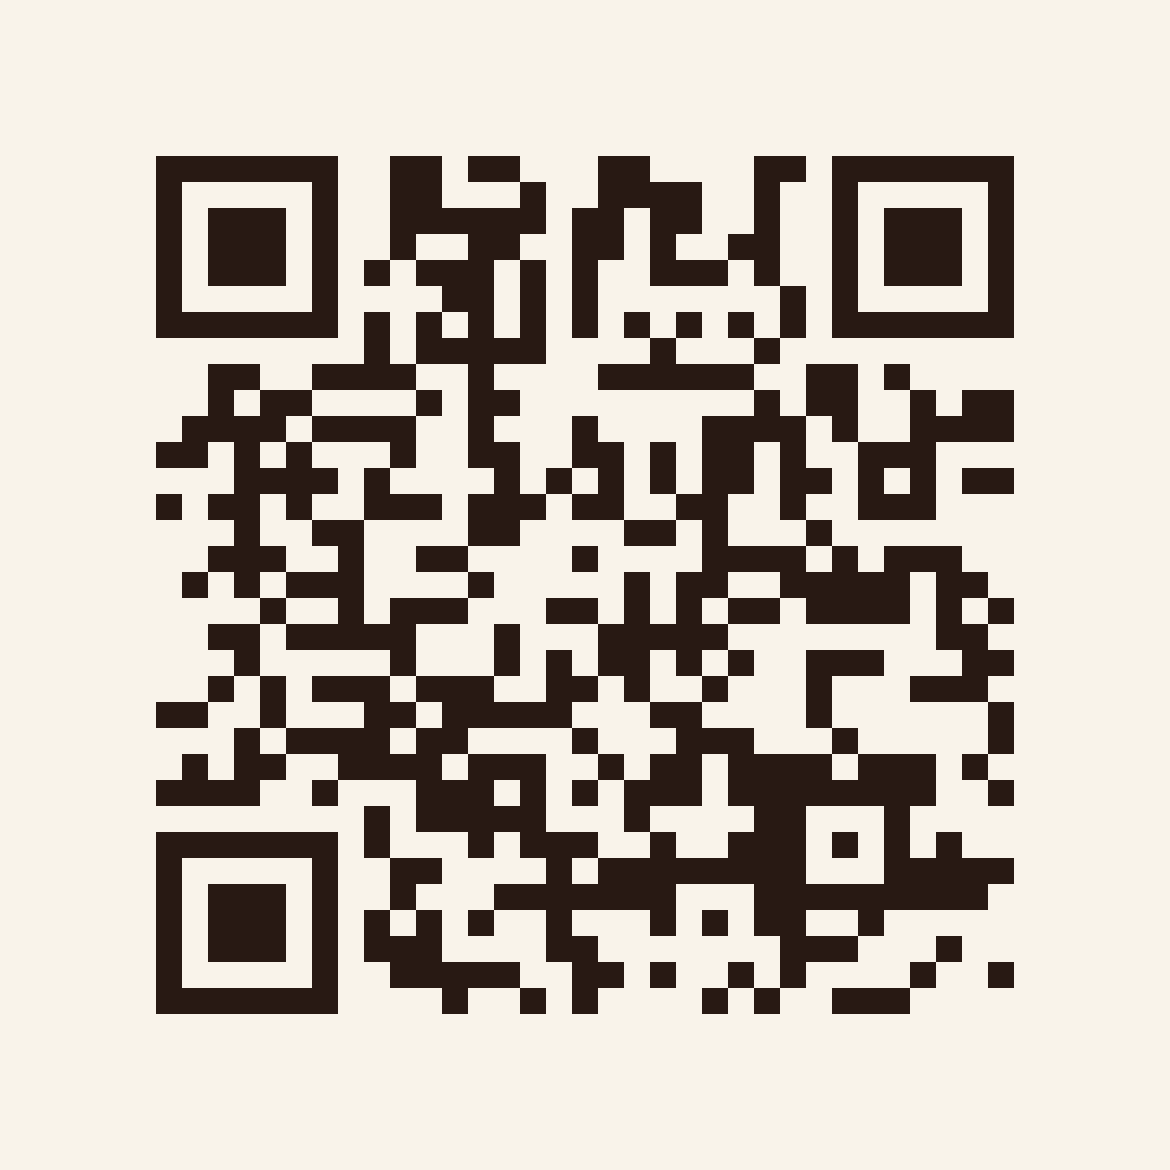
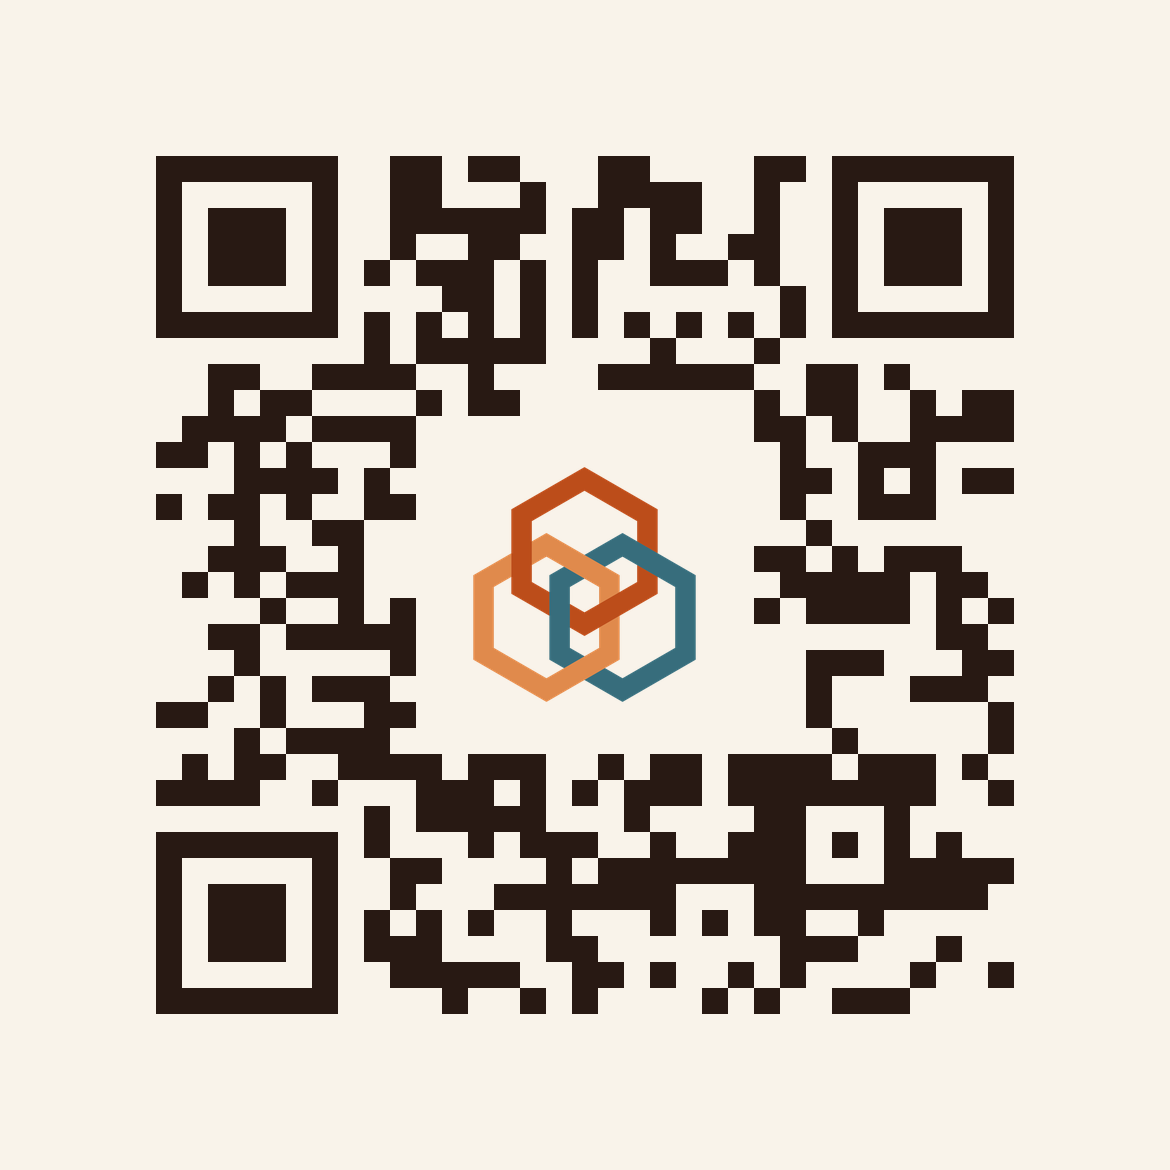
docs(deck): add the kolaxus lockup and brand the closing qr code

Changed region(s): [[0.3385, 0.3385, 0.6462, 0.6462]]

diff --git a/docs/submission/deck/mytakziah-deck.html b/docs/submission/deck/mytakziah-deck.html
@@ -20,14 +20,16 @@
         <div class="pad">
           <div class="cover-grid">
             <div class="cover-left">
-              <div class="cover-evt">
-                URIIS Student Biz Innov Challenge 2026 &middot; Track 02, One-Stop AI Assistant for Government Services
-              </div>
+              <div class="cover-evt">URIIS Student Biz Innov Challenge 2026 &middot; Track 02</div>
 
               <div>
                 <div class="cover-wordmark">
                   <img src="./assets/mark.png" alt="MyTakziah mark, three woven strands" />
                   <span>My<i>Takziah</i></span>
+                  <span class="cover-host">
+                    <span>Submitted on</span>
+                    <img src="./assets/kolaxus.png" alt="Kolaxus, Business Innovation Platform" />
+                  </span>
                 </div>
                 <p class="cover-tag">Grief is hard enough.<br /><b>The paperwork shouldn't be.</b></p>
                 <div class="strands">
@@ -42,7 +44,7 @@
                 <div class="team-row">
                   <div class="tm-card">
                     <div class="tm-name">Ling Jing Jie</div>
-                    <div class="tm-role">Team lead<br />Universiti Malaya</div>
+                    <div class="tm-role">Team Lead<br />Universiti Malaya</div>
                   </div>
                   <div class="tm-card">
                     <div class="tm-name">Hee Zi Jie</div>
@@ -1515,10 +1517,11 @@
 
             <div style="display: flex; flex-direction: column; gap: 26px; align-items: flex-start">
               <div style="display: flex; align-items: center; gap: 22px">
-                <div style="background: #fff; padding: 14px; border-radius: var(--radius)">
-                  <img src="./assets/qr.png" alt="QR code linking to mytakziah.vercel.app"
-                    style="width: 150px; height: 150px; display: block; image-rendering: pixelated" />
-                </div>
+                <img
+                  src="./assets/qr.png"
+                  alt="QR code linking to mytakziah.vercel.app"
+                  style="width: 212px; height: 212px; display: block; image-rendering: pixelated"
+                />
                 <div>
                   <div class="kx">Try The Walkthrough</div>
                   <p class="cp" style="margin-top: 8px">Five screens, no login, no real data.</p>

diff --git a/docs/submission/deck/assets/deck.css b/docs/submission/deck/assets/deck.css
@@ -569,6 +569,33 @@ table.grid .n {
   letter-spacing: 0.15em;
   text-transform: uppercase;
   color: var(--muted);
+  max-width: 720px;
+}
+/* The platform the entry is submitted through, sitting to the right of the
+   wordmark and pinned to its cap height. Third-party mark: shown as supplied,
+   never recoloured into the warm palette. */
+.cover-host {
+  display: flex;
+  align-items: center;
+  gap: 12px;
+  flex-shrink: 0;
+  margin-left: auto;
+  align-self: flex-start;
+  padding-top: 6px;
+}
+.cover-host > span {
+  font-family: var(--font-sans);
+  font-weight: 400;
+  font-size: var(--t-label);
+  letter-spacing: 0.14em;
+  text-transform: uppercase;
+  color: var(--muted);
+  white-space: nowrap;
+}
+.cover-host img {
+  height: 52px;
+  width: auto;
+  display: block;
 }
 .cover-wordmark {
   font-family: var(--font-display);

diff --git a/docs/submission/deck/assets/make-qr.py b/docs/submission/deck/assets/make-qr.py
@@ -1,0 +1,61 @@
+"""Deck QR: the prototype link with the MyTakziah mark knocked into the centre.
+
+Same encoding decisions as `../../brand/mytakziah-qr.py`, which stays the plain
+master. This variant exists only for the closing slide, where the mark in the
+middle earns its place: it names what the code points at.
+
+Correction level H tolerates roughly 30 per cent damage, so a centre patch at
+22 per cent of the width is well inside budget. The script decodes its own
+output before writing, and refuses to write a code it cannot read back.
+"""
+
+import sys
+
+import cv2
+import numpy as np
+from PIL import Image
+
+URL = "https://mytakziah.vercel.app"
+INK = (0x28, 0x19, 0x13)  # #281913, the project's foreground token
+SAND = (0xF9, 0xF3, 0xEA)  # #F9F3EA, the canvas ground
+QUIET = 4  # modules; 4 is the spec minimum
+TARGET = 1200  # px
+MARK = "mark.png"
+OUT = "qr.png"
+PATCH = 0.28  # knockout width as a fraction of the full image
+LOGO = 0.225  # mark width as a fraction of the full image
+
+p = cv2.QRCodeEncoder_Params()
+p.correction_level = cv2.QRCodeEncoder_CORRECT_LEVEL_H
+m = cv2.QRCodeEncoder_create(p).encode(URL)
+n = m.shape[0]
+
+padded = np.pad(m, QUIET, constant_values=255)
+scale = TARGET // padded.shape[0]
+big = np.kron(padded, np.ones((scale, scale), dtype=np.uint8))
+
+rgb = np.zeros((*big.shape, 3), dtype=np.uint8)
+rgb[big == 0] = INK
+rgb[big == 255] = SAND
+out = Image.fromarray(rgb).convert("RGBA")
+w = out.size[0]
+
+# Knock a sand square out of the centre, then drop the mark into it. The square
+# is squared to the module grid so the edge never cuts a module in half.
+patch = round(w * PATCH / scale) * scale
+x0 = (w - patch) // 2
+out.paste(Image.new("RGBA", (patch, patch), (*SAND, 255)), (x0, x0))
+
+mark = Image.open(MARK).convert("RGBA")
+side = int(w * LOGO)
+mark = mark.resize((side, side), Image.LANCZOS)
+out.alpha_composite(mark, ((w - side) // 2, (w - side) // 2))
+
+# Refuse to ship a code that will not scan.
+check = cv2.cvtColor(np.array(out.convert("RGB")), cv2.COLOR_RGB2BGR)
+decoded, _, _ = cv2.QRCodeDetector().detectAndDecode(check)
+if decoded != URL:
+    sys.exit(f"QR did not decode back to {URL!r}, got {decoded!r}. Not written.")
+
+out.save(OUT, dpi=(300, 300))
+print(f"matrix {n}x{n} (v{(n - 17) // 4}), module {scale}px, image {w}px, decoded ok")
